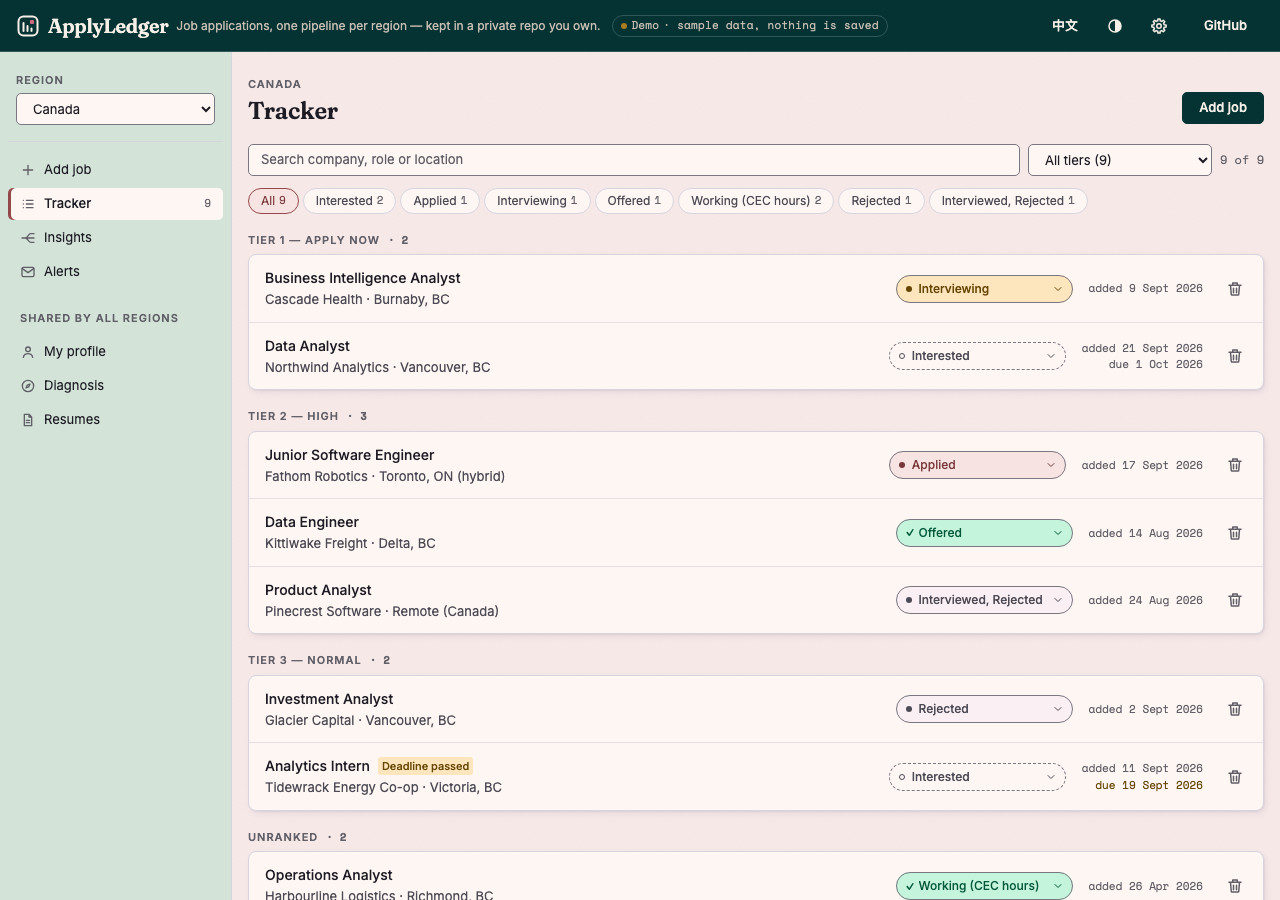
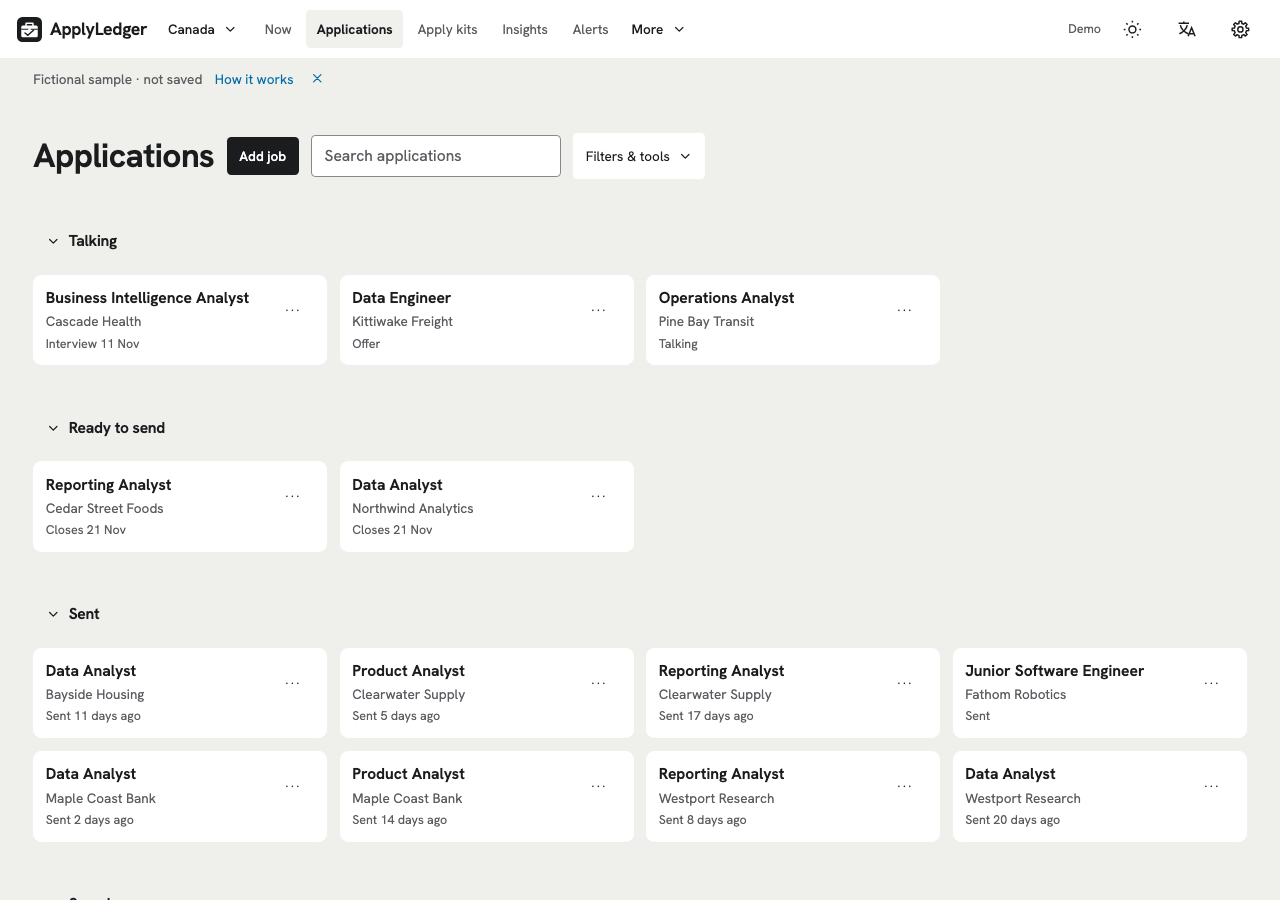
README: drop the Canada hours ledger section and retake the tracker screenshot
Removes the ledger section, the two table clauses that pointed to it and the Insights
screenshot that showed it. The tracker screenshot is retaken from the current demo
(?demo=1&tab=tracker, 1280x900); the old one showed an earlier layout.

diff --git a/README.md b/README.md
@@ -64,9 +64,9 @@ The navigation has two groups: the views that belong to the region you are in, a
 
 | View | What it does |
 |---|---|
-| **Add job** | Paste a job description or upload one (`.txt/.md/.docx/.pdf`). An upload fills the empty fields — company, role, location, salary, deadline — from the text, heuristically; for pasted text, *Fill fields from the description* does the same. You check them before saving. Tier (T1–T4) and status are on the same form, and in Canada so are the five fields the hours ledger reads |
+| **Add job** | Paste a job description or upload one (`.txt/.md/.docx/.pdf`). An upload fills the empty fields — company, role, location, salary, deadline — from the text, heuristically; for pasted text, *Fill fields from the description* does the same. You check them before saving. Tier (T1–T4) and status are on the same form |
 | **Tracker** | Applications grouped into populated stages, with search, tier filters and matching counts. To apply opens Tier 1 first and remembers folded tiers per region. Desktop cards have a keyboard-accessible Move to… menu; phone puts work in progress first and uses Status in the job details. Delete application is in details with confirmation. Opening a job also gives prompt generators for a tailored resume, cover letter, interview prep, networking plan and job-description analysis — copied into Claude.ai, no API key needed — translation prompts, and PDF slots that sync to the repo |
-| **Insights** | Where every application stands: a pipeline chart (or the same numbers as a table) whose parts add up to the whole, response and offer rates, upcoming deadlines and the companies you applied to most. In Canada it opens with the **CEC hours ledger** (below) |
+| **Insights** | Where every application stands: a pipeline chart (or the same numbers as a table) whose parts add up to the whole, response and offer rates, upcoming deadlines and the companies you applied to most |
 | **Alerts** | Optional, needs an Anthropic key: paste a LinkedIn job-alert email; Claude looks up each posting on the company's careers page and scores it against your profile, and the ones you tick go into the tracker. *Discover new jobs* has Claude run up to five web searches for postings from the last 24 hours that fit your profile and score them the same way. It searches the region picked at the top: each of the twelve regions names its own place and main cities in the search (Remote / Global asks for fully remote roles open to any country) |
 | **My profile** | A sectioned profile (upload files, or start from a skeleton and per-role skills blocks), a translation glossary, and formatting rules that go into every resume prompt |
 | **Diagnosis** | A six-step check before applying: stage → strengths → target profile → reality check against real postings → resume narrative → high-stakes decisions |
@@ -80,17 +80,6 @@ and [the additional browser checks](test/README.md). Kit content and selected re
 are supplied through the private data repository and are never bundled in this app.
 The header keeps save state visible on every page: the time of the last save, or a plain reason and Retry when a
 save fails.
-
-![Insights](docs/screenshot-insights.png)
-
-### Canada: the CEC hours ledger
-
-The Canadian Experience Class counts skilled work hours toward 1,560, and IRCC's 30-hours-a-week cap applies
-**across all jobs combined**, not per job. The ledger therefore slices time by week, sums every working job's hours
-for that week, caps the total at 30 and gives the capped hours back to each job in proportion — so two 25-hour jobs
-count as 30, not 50. It leaves out jobs whose NOC code isn't TEER 1–3 (a job with no NOC code yet is treated as
-TEER 2), warns about working jobs with no employment type recorded, since contractor hours don't count, and shows
-the date you reach 1,560 at the current weekly rate.
 
 ### Batch tailoring (optional, needs an Anthropic key)
 
